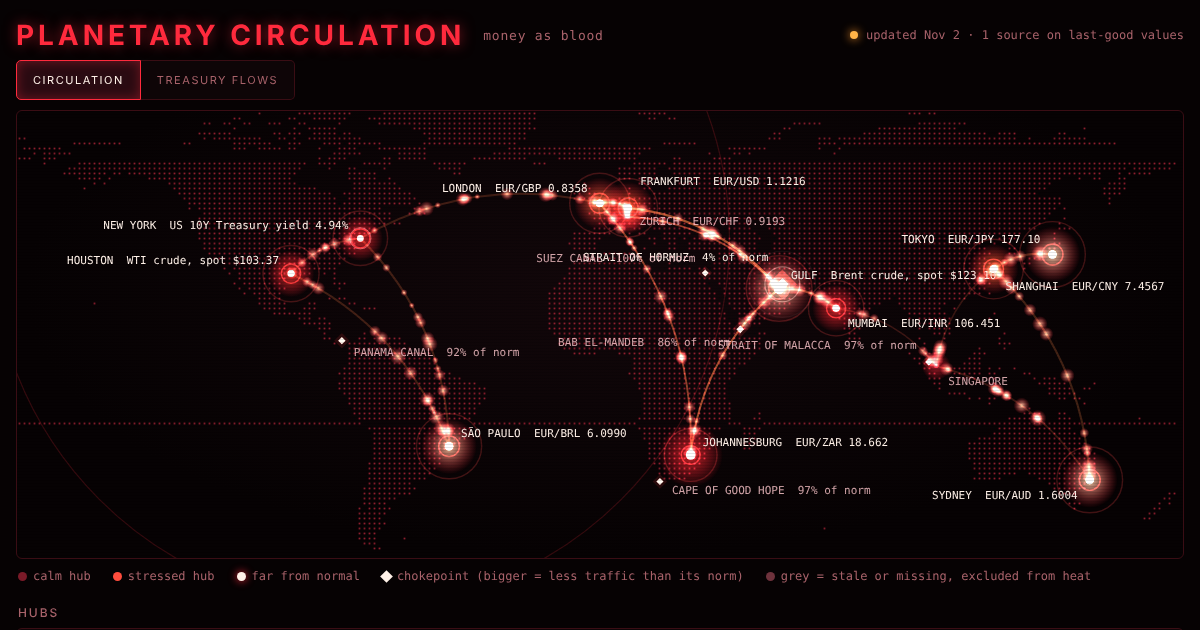
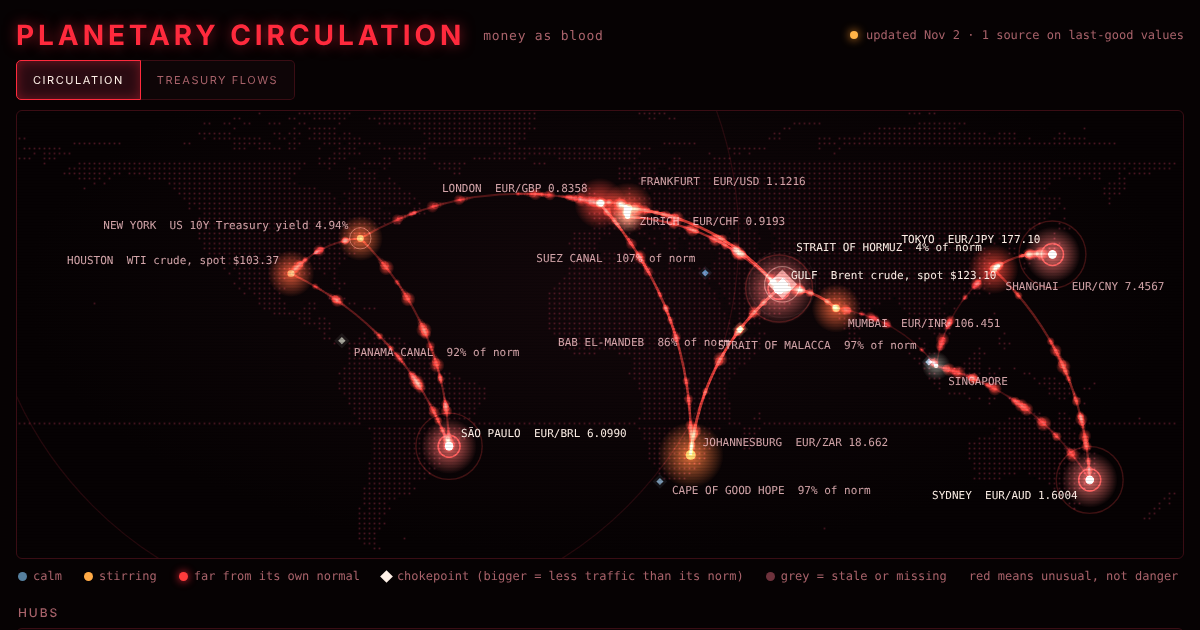
HUD: steel-blue/amber/red scale (red = unusual, not danger), blood-style trailing flow with heartbeat surge, label fix, new link card
Claude-Session: https://claude.ai/code/session_01GamK88Yt7XzRR66ZptV3qU

diff --git a/index.html b/index.html
@@ -53,7 +53,7 @@ td{padding:8px 12px;border-bottom:1px solid #1d0a0e;white-space:nowrap}
 tr.on td{background:#1b0910}tr:last-child td{border-bottom:0}
 .bar{display:inline-block;width:90px;height:7px;background:#1d0a0e;border-radius:4px;vertical-align:middle;position:relative;overflow:hidden}
 .bar>span{position:absolute;left:0;top:0;bottom:0;border-radius:4px}
-.up{color:#ff8f6a}.dn{color:#ff4d5f}.in{color:#ffd9dc}.out{color:#ff7a45}.stale{color:#7a4a50}
+.up{color:#8fbbe0}.dn{color:#ffa24d}.in{color:#ffd9dc}.out{color:#ff7a45}.stale{color:#7a4a50}
 .tag{font-size:10px;letter-spacing:.1em;border:1px solid #7a4a50;color:#b07a82;border-radius:3px;padding:1px 5px;margin-left:6px}
 .note{margin:16px 2px 0;color:var(--dim);font-size:12px;line-height:1.7;max-width:940px}
 .note b{color:var(--ink);font-weight:400}
@@ -70,7 +70,7 @@ a{color:#ff9a8a}
   <span class="sub">money as blood</span>
   <span class="status" role="status"><i class="dot" id="dot"></i><span id="stxt">loading…</span></span>
 </header>
-<p class="disc"><b>Information only.</b> A display of public data. Not investment advice, not a recommendation to buy or sell anything, and not personalized to anyone. Data is delayed and can be wrong or stale; every number carries its own as-of date. Do your own research.</p>
+<p class="disc"><b>Information only.</b> A display of public data. Red means unusual for that signal, not danger. Not investment advice, not a recommendation to buy or sell anything, and not personalized to anyone. Data is delayed and can be wrong or stale; every number carries its own as-of date. Do your own research.</p>
 <div class="banner" id="banner" role="alert"></div>
 <div class="modes" role="group" aria-label="View">
   <button id="m-circ" aria-pressed="true">CIRCULATION</button>
@@ -120,7 +120,7 @@ const HUBDEF = [
  {id:'SYD',name:'Sydney',lat:-33.9,lon:151.2,sig:'EUR/AUD',dp:4,typ:0.5,age:5,src:'ECB'}
 ];
 const LINKS=[['NYC','LON'],['LON','FRA'],['FRA','ZRH'],['FRA','DXB'],['DXB','BOM'],['BOM','SIN'],['SIN','SHA'],['SHA','TYO'],['SIN','SYD'],['NYC','HOU'],['NYC','GRU'],['LON','JNB'],['DXB','JNB'],['HOU','GRU'],['ZRH','DXB'],['SHA','SYD']];
-const CLBL={HRM:[-14,-26,'r'],BAB:[-10,14,'r'],SUZ:[-10,-14,'r'],MAL:[-12,-16,'r'],PAN:[12,12,'l'],CAP:[12,10,'l']};
+const CLBL={HRM:[14,-36,'l'],BAB:[-10,14,'r'],SUZ:[-10,-14,'r'],MAL:[-12,-16,'r'],PAN:[12,12,'l'],CAP:[12,10,'l']};
 let LAND=[], HUBS=HUBDEF.map((h,i)=>({...h,idx:i,price:null,chg:null,lo:null,hi:null,asof:null,tic:null,stale:true,missing:true})), byId={}, CH=[], DATA=null, TIC=null;
 HUBS.forEach(h=>byId[h.id]=h);
 
@@ -170,25 +170,29 @@ function layout(){
   landDots.step=step;arts=LINKS.map(([a,b])=>mkArc(byId[a],byId[b]));farts=HUBS.filter(h=>h.d1!=null&&h.id!=='NYC').map(h=>mkArc(h,byId.NYC));seedParts();
 }
 const bez=(a,t)=>{const u=1-t;return [u*u*a.pa[0]+2*u*t*a.cp[0]+t*t*a.pb[0],u*u*a.pa[1]+2*u*t*a.cp[1]+t*t*a.pb[1]];};
-function heatColor(h,al){const r=Math.round(122+133*h),g=Math.round(26+(h>0.7?(h-0.7)*3.3*190:0)+20*h),b=Math.round(40+(h>0.8?(h-0.8)*5*150:0));return `rgba(${r},${g},${b},${al})`;}
+const STOPS=[[0,[86,128,168]],[0.35,[255,170,70]],[0.7,[255,60,60]],[1,[255,241,232]]];
+function heatColor(h,al){h=Math.max(0,Math.min(1,h));let i=1;while(i<STOPS.length-1&&h>STOPS[i][0])i++;const a=STOPS[i-1],b=STOPS[i],t=(h-a[0])/(b[0]-a[0]),c=a[1].map((v,k)=>Math.round(v+(b[1][k]-v)*t));return `rgba(${c[0]},${c[1]},${c[2]},${al})`;}
+function bloodColor(hot,al){hot=Math.max(0,Math.min(1,hot));const k=Math.pow(hot,0.8),c=[Math.round(112+143*k),Math.round(20+52*k),Math.round(34+28*k)];return `rgba(${c[0]},${c[1]},${c[2]},${al})`;}
 function diamond(x,y,r){ctx.beginPath();ctx.moveTo(x,y-r);ctx.lineTo(x+r,y);ctx.lineTo(x,y+r);ctx.lineTo(x-r,y);ctx.closePath();}
 
 let last=performance.now(),time=0.8;
 function frame(now){
   const dt=Math.min(0.05,(now-last)/1000);last=now;if(!reduce)time+=dt;
   ctx.setTransform(DPR,0,0,DPR,0,0);ctx.globalCompositeOperation='source-over';ctx.clearRect(0,0,W,H);
-  const flow=mode==='flow';ctx.fillStyle=flow?'rgba(150,34,50,.55)':'rgba(176,38,56,.8)';
+  const flow=mode==='flow';ctx.fillStyle=flow?'rgba(100,34,50,.5)':'rgba(112,34,52,.62)';
   const s=landDots.step,r=Math.max(1.8,s*0.34);for(const p of landDots)ctx.fillRect(p[0]-r/2,p[1]-r/2,r,r);
-  const hb=(time%1.7)/1.7,beat=Math.exp(-Math.pow(hb/0.05,2))+0.6*Math.exp(-Math.pow((hb-0.2)/0.05,2));
+  const hb=(time%1.7)/1.7,surge=Math.exp(-Math.pow((hb-0.1)/0.16,2)),beat=Math.exp(-Math.pow(hb/0.05,2))+0.6*Math.exp(-Math.pow((hb-0.2)/0.05,2));
   const hp=proj(byId.NYC.lon,byId.NYC.lat),waveR=hb*W*0.95;ctx.globalCompositeOperation='lighter';
   if(!flow){
-    for(const a of arts){const mid=bez(a,0.5),dist=Math.hypot(mid[0]-hp[0],mid[1]-hp[1]),wave=Math.exp(-Math.pow((dist-waveR)/(W*0.09),2)),hot=(a.A.heat+a.B.heat)/2;
-      ctx.lineWidth=1+hot*1.2;ctx.strokeStyle=`rgba(255,${60+80*hot|0},70,${0.13+0.12*hot+0.4*wave})`;ctx.beginPath();ctx.moveTo(a.pa[0],a.pa[1]);ctx.quadraticCurveTo(a.cp[0],a.cp[1],a.pb[0],a.pb[1]);ctx.stroke();}
-    ctx.strokeStyle=`rgba(255,42,61,${0.28*(1-hb)})`;ctx.lineWidth=1.2;ctx.beginPath();ctx.arc(hp[0],hp[1],waveR,0,Math.PI*2);ctx.stroke();
-    for(const p of parts){const a=arts[p.a],hot=(a.A.heat+a.B.heat)/2;
-      if(!reduce){p.t+=p.dir*p.sp*dt*(1+hot*1.4)*(300/Math.max(120,a.len));if(p.t>1)p.t-=1;if(p.t<0)p.t+=1;}
-      const q=bez(a,p.t),hh=(p.dir>0?a.B:a.A).heat,rad=p.sz*(0.9+hh*0.9),g=ctx.createRadialGradient(q[0],q[1],0,q[0],q[1],rad*2.4);
-      g.addColorStop(0,`rgba(255,${110+100*hh|0},${90+80*hh|0},.95)`);g.addColorStop(1,'rgba(255,40,60,0)');ctx.fillStyle=g;ctx.beginPath();ctx.arc(q[0],q[1],rad*2.4,0,Math.PI*2);ctx.fill();}
+    for(const a of arts){const mid=bez(a,0.5),dist=Math.hypot(mid[0]-hp[0],mid[1]-hp[1]),wave=Math.exp(-Math.pow((dist-waveR)/(W*0.09),2)),hot=Math.max(0,((a.A.heat+a.B.heat)/2-0.25)/0.75);
+      ctx.lineWidth=1.1+hot*1.3+wave*0.8;ctx.strokeStyle=bloodColor(hot*0.8+wave*0.4,0.26+0.2*hot+0.35*wave);ctx.beginPath();ctx.moveTo(a.pa[0],a.pa[1]);ctx.quadraticCurveTo(a.cp[0],a.cp[1],a.pb[0],a.pb[1]);ctx.stroke();}
+    ctx.strokeStyle=`rgba(190,40,56,${0.26*(1-hb)})`;ctx.lineWidth=1.2;ctx.beginPath();ctx.arc(hp[0],hp[1],waveR,0,Math.PI*2);ctx.stroke();
+    for(const p of parts){const a=arts[p.a],hot=Math.max(0,((a.A.heat+a.B.heat)/2-0.25)/0.75);
+      if(!reduce){p.t+=p.dir*p.sp*dt*(0.45+hot*1.2)*(1+0.9*surge)*(300/Math.max(120,a.len));if(p.t>1)p.t-=1;if(p.t<0)p.t+=1;}
+      const hh=Math.max(0,(((p.dir>0?a.B:a.A).heat)-0.25)/0.75),rad=p.sz*(0.9+hh*0.8);
+      for(let k=4;k>=1;k--){const tt=p.t-p.dir*k*0.013;if(tt<0||tt>1)continue;const q2=bez(a,tt);ctx.fillStyle=bloodColor(hot,0.34*(1-k/5));ctx.beginPath();ctx.arc(q2[0],q2[1],rad*(1.5-k*0.2),0,Math.PI*2);ctx.fill();}
+      const q=bez(a,p.t),g=ctx.createRadialGradient(q[0],q[1],0,q[0],q[1],rad*2.4);
+      g.addColorStop(0,bloodColor(hh,0.95));g.addColorStop(1,bloodColor(hh,0));ctx.fillStyle=g;ctx.beginPath();ctx.arc(q[0],q[1],rad*2.4,0,Math.PI*2);ctx.fill();}
   } else {
     for(const a of farts){const h=a.A,inflow=h.d1>=0;ctx.lineWidth=0.8+Math.min(3.2,Math.abs(h.d6)/45);ctx.strokeStyle=inflow?'rgba(255,215,220,.28)':'rgba(255,110,40,.34)';
       ctx.beginPath();ctx.moveTo(a.pa[0],a.pa[1]);ctx.quadraticCurveTo(a.cp[0],a.cp[1],a.pb[0],a.pb[1]);ctx.stroke();}
@@ -198,20 +202,20 @@ function frame(now){
   }
   ctx.font='11px "Share Tech Mono",monospace';ctx.textBaseline='middle';const labels=[];
   for(const h of HUBS){
-    const p=proj(h.lon,h.lat),isHeart=h.id==='NYC',hv=flow?(h.d1==null?0.12:Math.min(1,Math.abs(h.d1)/40)):h.heat,wound=!flow&&!h.stale&&h.heat>0.6;
+    const p=proj(h.lon,h.lat),isHeart=h.id==='NYC',hv=flow?(h.d1==null?0.12:Math.min(1,Math.abs(h.d1)/40)):h.heat,wound=!flow&&!h.stale&&h.heat>0.85;
     const dist=Math.hypot(p[0]-hp[0],p[1]-hp[1]),wv=Math.exp(-Math.pow((dist-waveR)/(W*0.06),2));let rad=3+hv*4+(isHeart?beat*4:0)+wv*3;
-    const col=flow&&h.d1!=null&&h.d1<0?`rgba(255,${110+60*hv|0},40,.9)`:(h.stale&&!h.relay&&!flow?'rgba(110,50,60,.8)':heatColor(hv,0.9));
-    const gr=ctx.createRadialGradient(p[0],p[1],0,p[0],p[1],rad*4);gr.addColorStop(0,col);gr.addColorStop(1,'rgba(255,30,50,0)');
+    const col=flow&&h.d1!=null&&h.d1<0?`rgba(255,${110+60*hv|0},40,.9)`:(h.stale&&!h.relay&&!flow?'rgba(110,50,60,.8)':heatColor(hv*0.8,0.9));
+    const gr=ctx.createRadialGradient(p[0],p[1],0,p[0],p[1],rad*4);gr.addColorStop(0,col);gr.addColorStop(1,heatColor(hv*0.8,0));
     ctx.fillStyle=gr;ctx.beginPath();ctx.arc(p[0],p[1],rad*4,0,Math.PI*2);ctx.fill();ctx.fillStyle=wound?'rgba(255,241,232,.95)':col;ctx.beginPath();ctx.arc(p[0],p[1],rad*0.6,0,Math.PI*2);ctx.fill();
     if(wound)for(let k=0;k<2;k++){const ph=((time*0.9+k*0.5)%1);ctx.strokeStyle=`rgba(255,70,70,${0.6*(1-ph)})`;ctx.lineWidth=1.4;ctx.beginPath();ctx.arc(p[0],p[1],6+ph*28*(0.6+h.heat),0,Math.PI*2);ctx.stroke();}
-    if(isHeart){ctx.strokeStyle=`rgba(255,200,200,${0.35+0.4*beat})`;ctx.lineWidth=1;ctx.beginPath();ctx.arc(p[0],p[1],rad+5,0,Math.PI*2);ctx.stroke();}
+    if(isHeart){ctx.strokeStyle=`rgba(255,205,205,${0.3+0.4*beat})`;ctx.lineWidth=1;ctx.beginPath();ctx.arc(p[0],p[1],rad+5,0,Math.PI*2);ctx.stroke();}
     labels.push([h,p,wound]);
   }
   for(const c of CH){   // chokepoints: bigger and brighter the further traffic is below its own norm
     const p=proj(c.lon,c.lat),st=c.stress;
     if(st>0.4)for(let k=0;k<2;k++){const ph=((time*0.6+k*0.5)%1);ctx.strokeStyle=`rgba(255,240,230,${0.5*(1-ph)*st})`;ctx.lineWidth=1.2;ctx.beginPath();ctx.arc(p[0],p[1],5+ph*(10+22*st),0,Math.PI*2);ctx.stroke();}
-    ctx.fillStyle=`rgba(255,60,60,${0.12+0.3*st})`;diamond(p[0],p[1],7+8*st);ctx.fill();
-    ctx.fillStyle=c.stale?'rgba(150,90,100,.7)':'#fff1e8';diamond(p[0],p[1],3.5+2.5*st);ctx.fill();
+    ctx.fillStyle=heatColor(st*1.6,0.12+0.3*st);diamond(p[0],p[1],7+8*st);ctx.fill();
+    ctx.fillStyle=c.stale?'rgba(150,90,100,.7)':heatColor(st*1.6,1);diamond(p[0],p[1],3.5+2.5*st);ctx.fill();
   }
   ctx.globalCompositeOperation='source-over';
   const LBL={NYC:[-12,-12,'r'],HOU:[-12,-12,'r'],GRU:[12,-12,'l'],LON:[-12,-14,'r'],FRA:[12,-26,'l'],ZRH:[12,6,'l'],DXB:[12,-12,'l'],JNB:[12,-12,'l'],BOM:[12,16,'l'],SIN:[12,16,'l'],SHA:[12,18,'l'],TYO:[12,-14,'l'],SYD:[-12,16,'r']};
@@ -229,19 +233,19 @@ function buildTable(){
   [...HUBS].sort((a,b)=>b.heat-a.heat).forEach(h=>{
     const tr=document.createElement('tr');tr.dataset.i=h.idx;const dim=h.stale&&!h.relay?' class="stale"':'';
     const mv=h.chg==null||h.stale?'<span class="stale">n/a</span>':`<span class="${h.chg>=0?'up':'dn'}">${h.chg>=0?'+':''}${h.chg.toFixed(h.unit==='bp'?1:(h.typ<1?3:2))}${h.unit==='bp'?' bp':'%'}</span>`;
-    const rng=h.pos==null?'<span class="stale">n/a</span>':`<span class="bar"><span style="width:${(h.pos*100).toFixed(0)}%;background:#7a1a28"></span></span> ${(h.pos*100).toFixed(0)}%`;
-    const ht=h.stale&&!h.relay?'<span class="stale">n/a</span>':`<span class="bar"><span style="width:${(h.heat*100).toFixed(0)}%;background:linear-gradient(90deg,#7a1a28,#ff2a3d,#fff1e8)"></span></span> ${(h.heat*100).toFixed(0)}`;
+    const rng=h.pos==null?'<span class="stale">n/a</span>':`<span class="bar"><span style="width:${(h.pos*100).toFixed(0)}%;background:#56809f"></span></span> ${(h.pos*100).toFixed(0)}%`;
+    const ht=h.stale&&!h.relay?'<span class="stale">n/a</span>':`<span class="bar"><span style="width:${(h.heat*100).toFixed(0)}%;background:linear-gradient(90deg,#56809f,#ffaa46,#ff3c3c)"></span></span> ${(h.heat*100).toFixed(0)}`;
     const tc=d=>d==null?'<span class="stale">n/a</span>':`<span class="${d>=0?'in':'out'}">${fmtD(d)}B</span>`;
     const asof=h.relay?'n/a':(h.missing?'no data':fmtDate(h.asof)+(h.stale?'<span class="tag">STALE</span>':''));
     tr.innerHTML=`<td>${h.name}</td><td${dim}>${h.sig}</td><td${dim}>${h.relay||h.missing?'':fmtVal(h)}</td><td>${mv}</td><td>${rng}</td><td>${ht}</td><td title="${h.ticnote||''}">${tc(h.d1)}</td><td>${tc(h.d6)}</td><td${dim}>${asof}</td>`;tb.appendChild(tr);});
   const cb=document.querySelector('#ctbl tbody');cb.innerHTML='';
   if(!CH.length){cb.innerHTML='<tr><td colspan="6" class="stale">No chokepoint data yet. It appears after the first daily data run.</td></tr>';}
   CH.forEach(c=>{const tr=document.createElement('tr');const pc=c.ratio==null?'n/a':Math.round(c.ratio*100)+'%';
-    tr.innerHTML=`<td>◆ ${c.name}</td><td>${c.latest}</td><td>${c.avg7}</td><td>${c.base} <span class="stale">(${c.baseline_note||''})</span></td><td>${c.stale?'<span class="stale">n/a</span>':`<span class="bar"><span style="width:${Math.min(100,(c.ratio||0)*100).toFixed(0)}%;background:#7a1a28"></span></span> ${pc}`}</td><td>${fmtDate(c.asof)}${c.stale?'<span class="tag">STALE</span>':''}</td>`;cb.appendChild(tr);});
+    tr.innerHTML=`<td>◆ ${c.name}</td><td>${c.latest}</td><td>${c.avg7}</td><td>${c.base} <span class="stale">(${c.baseline_note||''})</span></td><td>${c.stale?'<span class="stale">n/a</span>':`<span class="bar"><span style="width:${Math.min(100,(c.ratio||0)*100).toFixed(0)}%;background:${(c.ratio||0)>=0.9?'#56809f':(c.ratio||0)>=0.75?'#ffaa46':'#ff3c3c'}"></span></span> ${pc}`}</td><td>${fmtDate(c.asof)}${c.stale?'<span class="tag">STALE</span>':''}</td>`;cb.appendChild(tr);});
 }
 function buildLegend(){$('legend').innerHTML=mode==='flow'
  ?'<span><i style="background:#ffe9ea;box-shadow:0 0 8px #ff2a3d"></i>holdings up: toward New York</span><span><i style="background:#ff7a28"></i>holdings down: away</span><span>line weight = six-month change</span><span>source: U.S. Treasury TIC'+(TIC?', '+TIC.label:'')+'</span>'
- :'<span><i style="background:#7a1a28"></i>calm hub</span><span><i style="background:#ff4d3d"></i>stressed hub</span><span><i style="background:#fff1e8;box-shadow:0 0 8px #ff2a3d"></i>far from normal</span><span><i class="dia" style="background:#fff1e8"></i>chokepoint (bigger = less traffic than its norm)</span><span><i style="background:#6e323c"></i>grey = stale or missing, excluded from heat</span>';}
+ :'<span><i style="background:#56809f"></i>calm</span><span><i style="background:#ffaa46"></i>stirring</span><span><i style="background:#ff3c3c;box-shadow:0 0 8px #ff2a3d"></i>far from its own normal</span><span><i class="dia" style="background:#fff1e8"></i>chokepoint (bigger = less traffic than its norm)</span><span><i style="background:#6e323c"></i>grey = stale or missing</span><span>red means unusual, not danger</span>';}
 function setMode(m){mode=m;$('m-circ').setAttribute('aria-pressed',m==='circ');$('m-flow').setAttribute('aria-pressed',m==='flow');buildLegend();if(reduce)requestAnimationFrame(frame);}
 $('m-circ').onclick=()=>setMode('circ');$('m-flow').onclick=()=>setMode('flow');
 
